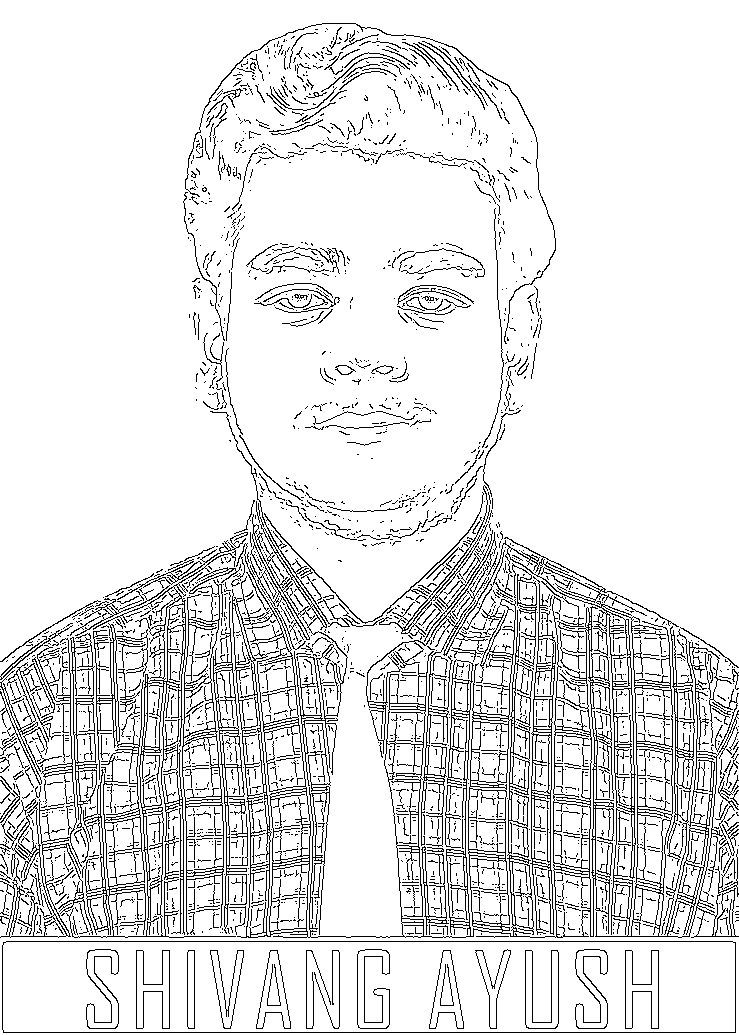
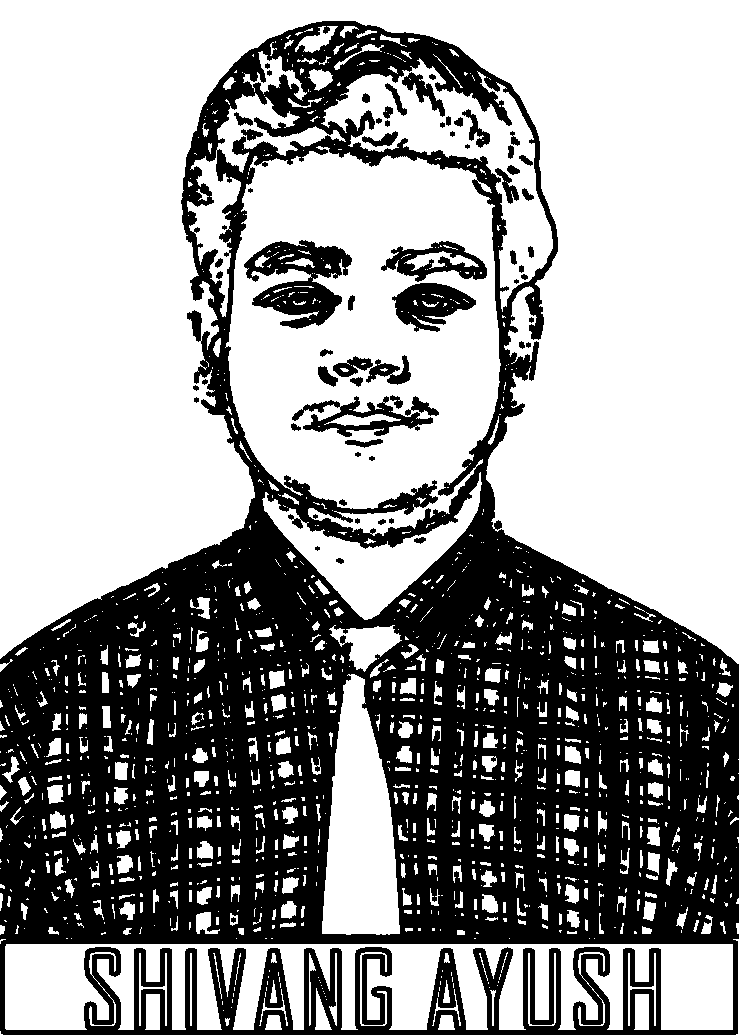
hmm finally end!

Changed region(s): [[0.0, 0.0, 1.0, 1.0], [0.4046, 0.3401, 0.5913, 0.4329], [0.747, 0.2164, 0.7781, 0.2473]]

diff --git a/blk_n_wht_to_wht_n_blk.py b/blk_n_wht_to_wht_n_blk.py
@@ -1,3 +1,4 @@
+# ...existing code...
 import cv2
 
 img = cv2.imread("SA.png")
@@ -11,18 +12,21 @@ blur = cv2.GaussianBlur(gray, (5,5), 0)
 # detect edges (white edges on black background)
 edges = cv2.Canny(blur, 50, 50)
 
-# invert: black edges on white background
-inverted = 255-edges
-# alternative: inverted = 255 - edges
+# optional: thicken edges (dilate the white edges) before inverting
+# adjust kernel size and iterations to control thickness
+kernel = cv2.getStructuringElement(cv2.MORPH_ELLIPSE, (5,5))
+dilated = cv2.dilate(edges, kernel, iterations=1)
 
-# optional: thicken edges (uncomment if you want thicker black borders)
-# kernel = cv2.getStructuringElement(cv2.MORPH_RECT, (3,3))
-# inverted = cv2.dilate(inverted, kernel, iterations=1)
+# invert: black edges on white background
+inverted = cv2.bitwise_not(dilated)
+# alternative: inverted = 255 - dilated
 
 # show and save
 cv2.imshow("Canny (white on black)", edges)
+cv2.imshow("Dilated (white on black)", dilated)
 cv2.imshow("Inverted (black on white)", inverted)
 cv2.imwrite("SA_canny_inverted.png", inverted)
 
 cv2.waitKey(0)
 cv2.destroyAllWindows()
+# ...existing code...
